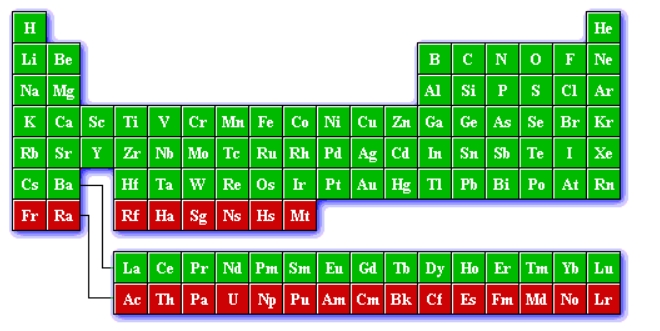
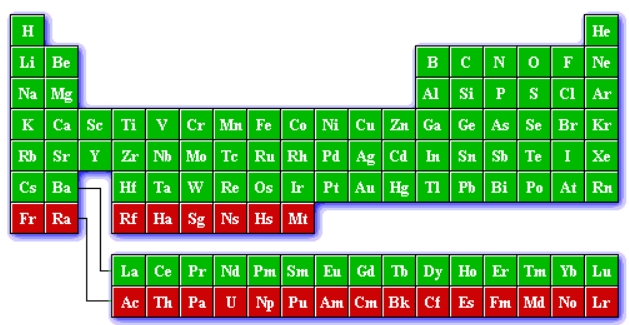
pseudo tables

diff --git a/docs/pseudopotential.html b/docs/pseudopotential.html
@@ -255,8 +255,9 @@
             <area coords="553,197,586,227" href="http://www.pseudo-dojo.org/pseudos/nc-sr-04_pbe_standard/Ts.psp8.gz" shape="rect" data-element="Tennessine">
             <area coords="587,197,621,227" href="http://www.pseudo-dojo.org/pseudos/nc-sr-04_pbe_standard/Og.psp8.gz" shape="rect" data-element="Oganesson">
         </map>
-        <img alt="NC pseudopotential periodic table" height="227" src="./img/periodic-oncvpsp-pbe-pdv0-2.gif"
-             usemap="#map1" width="631">
+        <img alt="NC pseudopotential periodic table" height="325"
+             src="./img/norm.jpg"
+             usemap="#map1" width="629">
     <p><em><em>&nbsp;</em></em></p>
 
     <p><em><em>Current version of the library: <b>ONCVPSP-PBE-PDv0.4</b><br>
@@ -386,8 +387,8 @@
 <area coords="247,197,280,227" href="/ATOMICDATA/108-hs/index.html" shape="rect">
 <area coords="281,197,314,227" href="/ATOMICDATA/109-mt/index.html" shape="rect">
             </map>
-            <img alt="PAW pseudopotential periodic table" height="216"
-                 src="img/PAW.jpg" usemap="#map2" width="621">
+            <img alt="PAW pseudopotential periodic table" height="325"
+                 src="img/PAW.jpg" usemap="#map2" width="629">
         </em></em>
         <p style="text-align: left;"><em><em>Current version of the library: <b>JTH - v1.1</b><br>
 Download the entire dataset table: <a href="/ATOMICDATA/JTH-LDA-atomicdata.tar.gz" target="_blank">LDA table</a>, <a href="/ATOMICDATA/JTH-PBE-atomicdata.tar.gz" target="_blank">PBE table</a></em></em></p>
